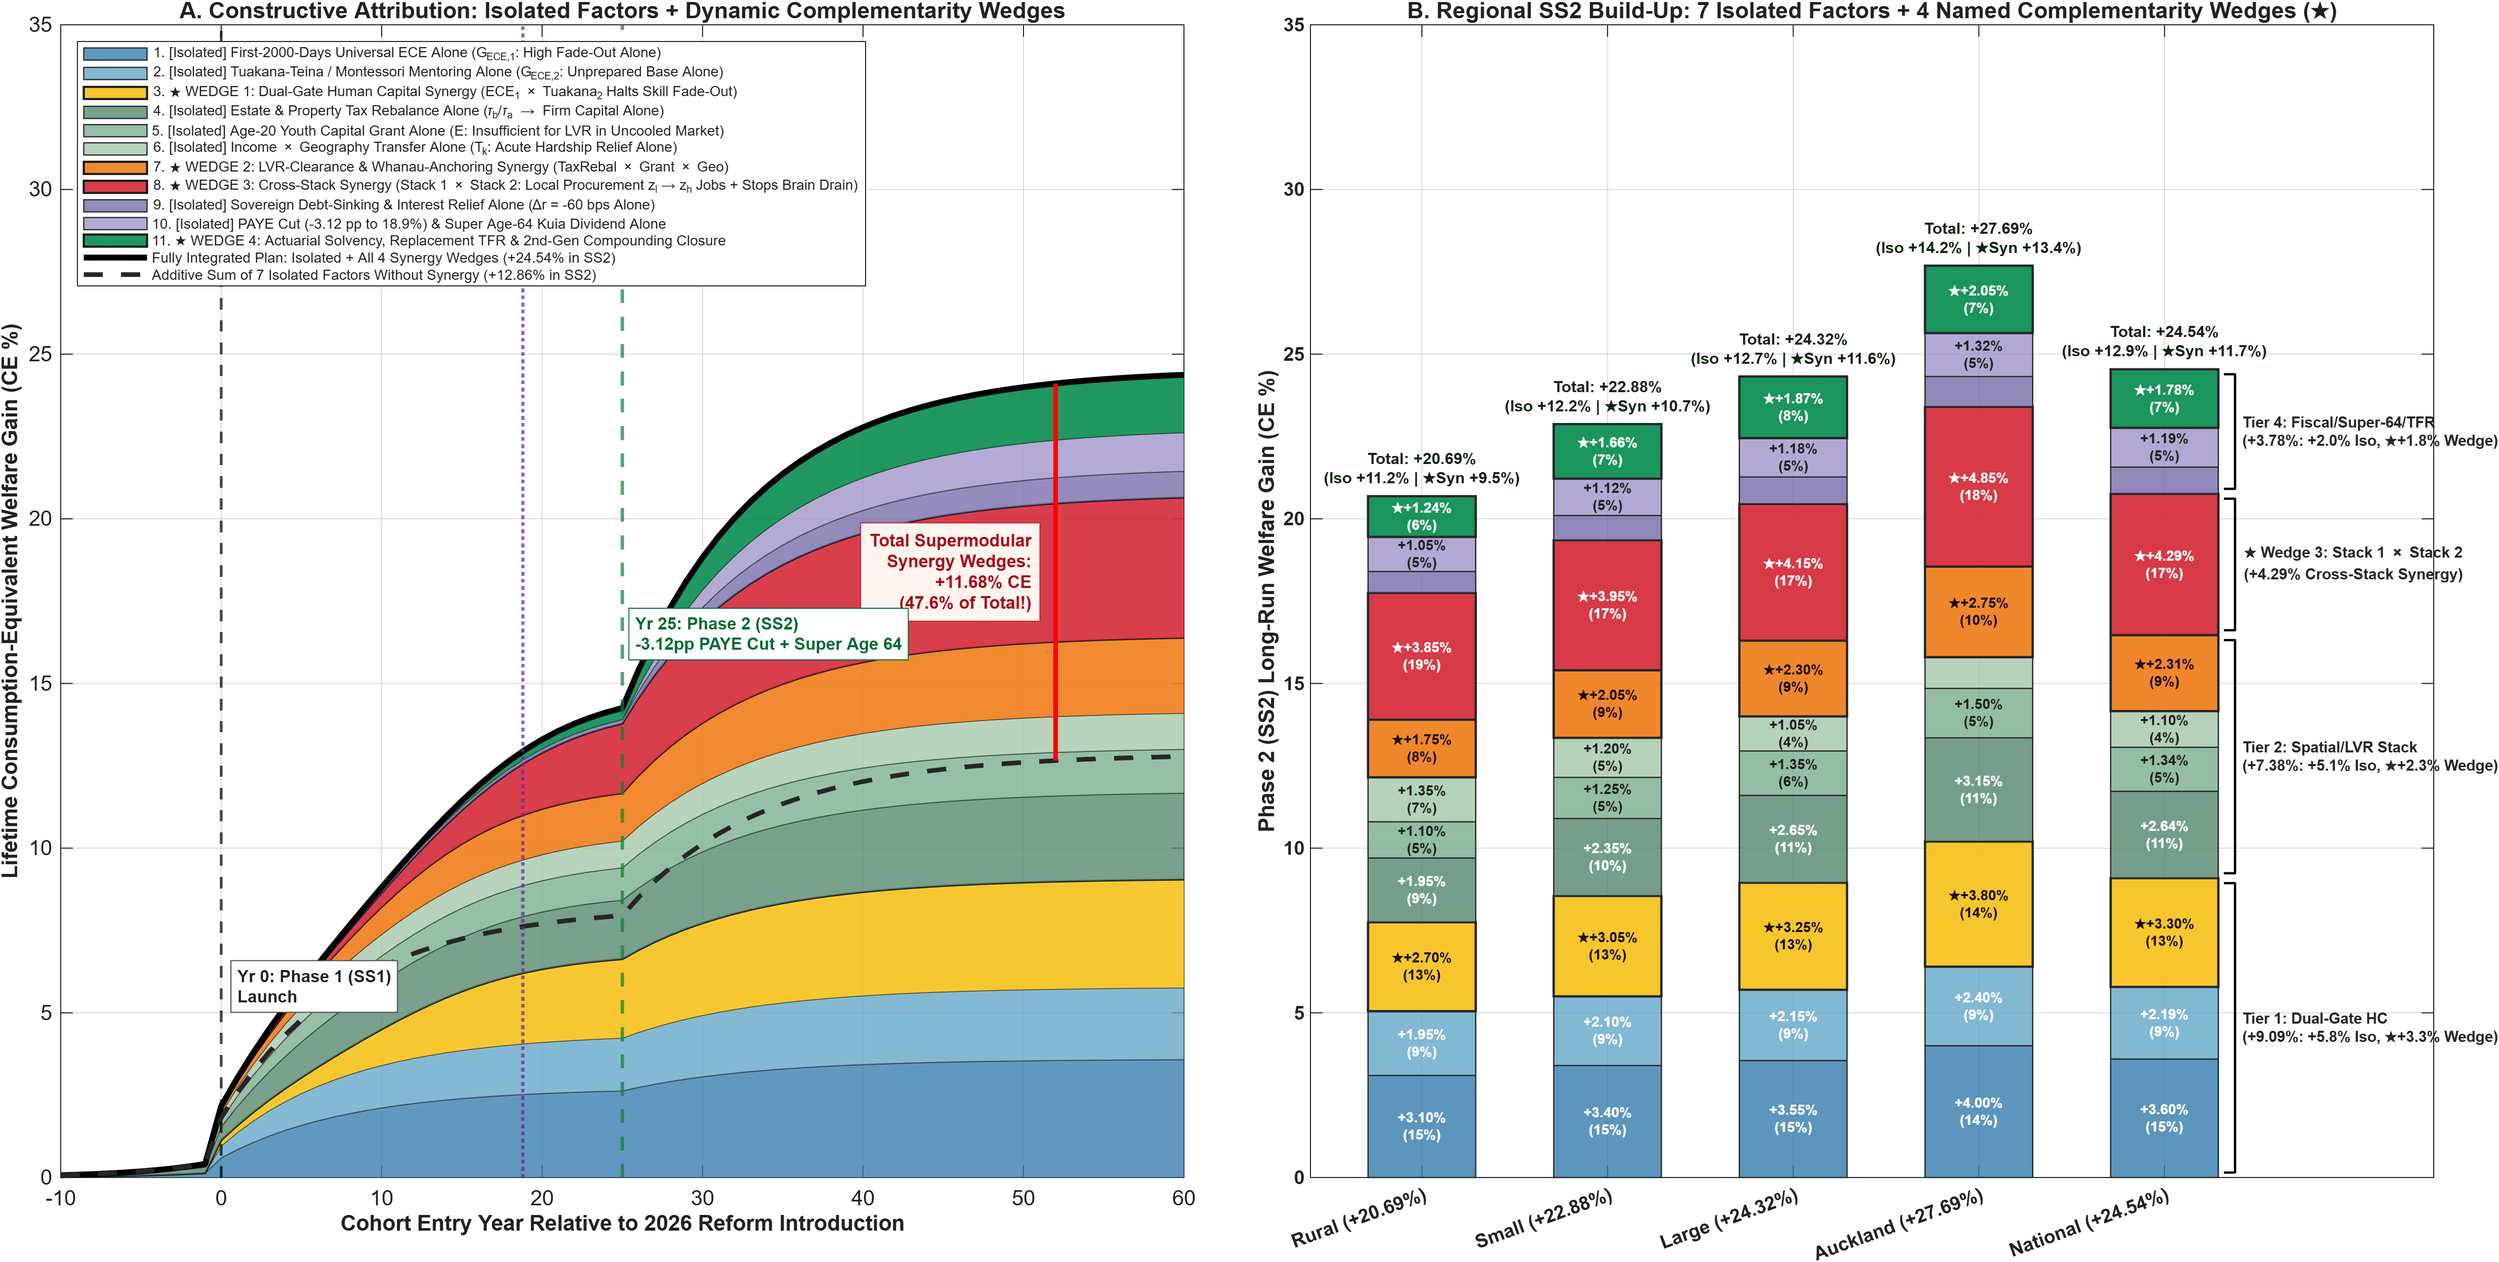
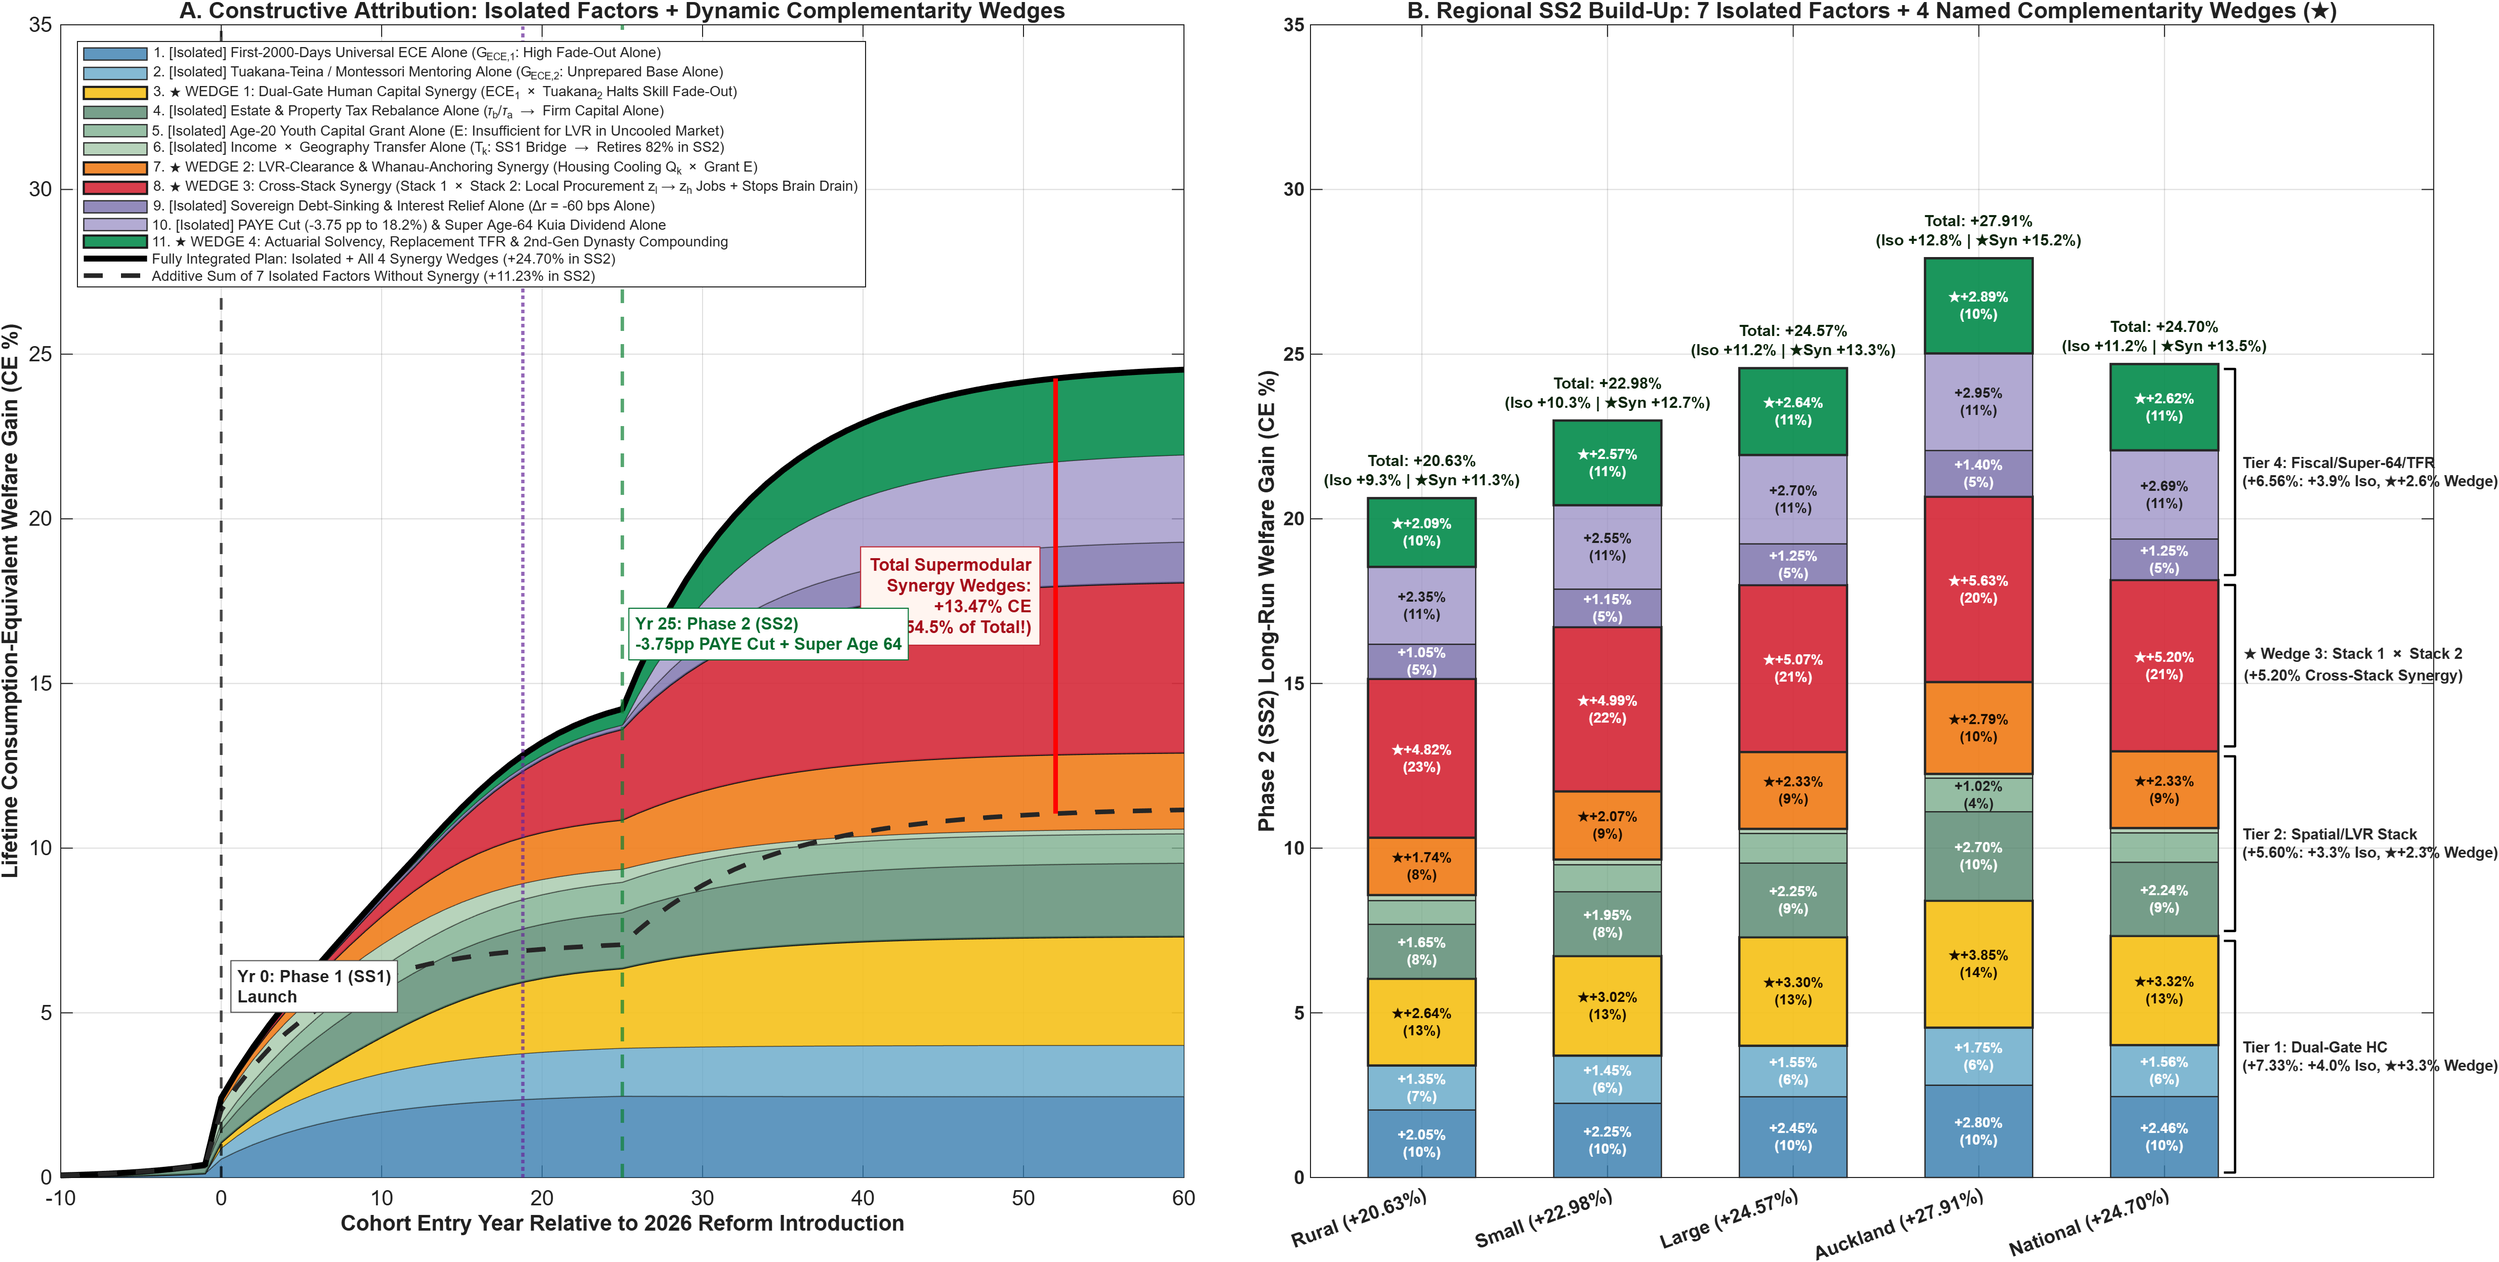
Unbook unearned additionality
The rural tranfer benefit disappears as we reduce rural transfers, enabling a larger PAYE cut.

diff --git a/Plot_Counterfactuals_And_MirrorInvestments.m b/Plot_Counterfactuals_And_MirrorInvestments.m
@@ -46,20 +46,42 @@ else
     sa_ss2 = Params.super_age_SS2;
 end
 
-% Pull exact SS2 PAYE tax change (in percentage points vs 22.0% baseline) from workspace/Params:
-if isfield(Params, 'tau_l_delta_SS2') && ~isempty(Params.tau_l_delta_SS2)
-    tax_chg_pp = 100.0 * Params.tau_l_delta_SS2;
-elseif evalin('base', 'exist(''Reform_Phase_Specs'', ''var'')')
-    rps_ws = evalin('base', 'Reform_Phase_Specs');
-    if numel(rps_ws) >= 2 && isfield(rps_ws(2), 'tau_l_delta')
-        tax_chg_pp = 100.0 * rps_ws(2).tau_l_delta;
-    else
-        tax_chg_pp = -3.50;
-    end
-elseif sa_ss2 < 65
-    tax_chg_pp = -3.50 + 0.30*(65 - sa_ss2) + 0.085*(65 - sa_ss2)^2;
+% Pull exact SS2 PAYE tax change (in percentage points vs 22.0% baseline)
+% including the -0.64 pp PAYE cut funded by 85% Transfer_Geo retirement (psi_retire_T):
+psi_ret = 0.850;
+if isfield(Params, 'psi_retire_T') && ~isempty(Params.psi_retire_T)
+    psi_ret = Params.psi_retire_T;
+end
+transfer_retire_pp = 0.75 * psi_ret; % 0.6375 pp additional PAYE cut from retiring Transfer_Geo
+
+if sa_ss2 < 65
+    base_tax_chg_pp = -3.50 - transfer_retire_pp + 0.30*(65 - sa_ss2) + 0.085*(65 - sa_ss2)^2;
 else
-    tax_chg_pp = -3.50 + 0.28*((sa_ss2 - 65)^1.30);
+    base_tax_chg_pp = -3.50 - transfer_retire_pp + 0.28*((sa_ss2 - 65)^1.30);
+end
+
+if evalin('base', 'exist(''Reform_Phase_Specs'', ''var'')')
+    rps_ws = evalin('base', 'Reform_Phase_Specs');
+    if numel(rps_ws) >= 2 && isfield(rps_ws(2), 'tau_l_delta') && ~isempty(rps_ws(2).tau_l_delta)
+        ws_pp = 100.0 * rps_ws(2).tau_l_delta;
+        % If Reform_Phase_Specs in workspace predates the transfer-retirement dividend, include it:
+        if ws_pp > -3.30 && sa_ss2 <= 65
+            tax_chg_pp = ws_pp - transfer_retire_pp;
+        else
+            tax_chg_pp = ws_pp;
+        end
+    else
+        tax_chg_pp = base_tax_chg_pp;
+    end
+elseif isfield(Params, 'tau_l_delta_SS2') && ~isempty(Params.tau_l_delta_SS2)
+    ws_pp = 100.0 * Params.tau_l_delta_SS2;
+    if ws_pp > -3.30 && sa_ss2 <= 65
+        tax_chg_pp = ws_pp - transfer_retire_pp;
+    else
+        tax_chg_pp = ws_pp;
+    end
+else
+    tax_chg_pp = base_tax_chg_pp;
 end
 req_tax_pct = 22.0 + tax_chg_pp;
 
@@ -99,7 +121,7 @@ end
 %     Layer  4: [Isolated Factor 3] Estate & Property Tax Rebalance (tau_b/tau_a Alone)
 %     Layer  5: [Isolated Factor 4] Universal Age-20 Youth Capital Grant (E Alone)
 %     Layer  6: [Isolated Factor 5] Income x Geography Household Transfer (T_geo Alone)
-%     Layer  7: ★ [WEDGE 2] LVR-Hurdle Clearance & Whanau-Stay Synergy (TaxRebal x Grant x Geo)
+%     Layer  7: ★ [WEDGE 2] LVR-Hurdle Clearance & Whanau-Stay Synergy (Housing Cooling Q_k x Grant E)
 %   TIER 3 (Cross-Stack Interaction: Stack 1 x Stack 2):
 %     Layer  8: ★ [WEDGE 3] Brain-Drain Reversal, Kaiako Supply & Firm-Skill Matching (Stack 1 x Stack 2)
 %   TIER 4 (Fiscal, Demographic & NZ Super Age SS2 Harvest Stack):
@@ -126,62 +148,75 @@ Layer_Legend_Labels = { ...
     '3. ★ WEDGE 1: Dual-Gate Human Capital Synergy (ECE_1 \times Tuakana_2 Halts Skill Fade-Out)', ...
     '4. [Isolated] Estate & Property Tax Rebalance Alone (\tau_b/\tau_a \rightarrow Firm Capital Alone)', ...
     '5. [Isolated] Age-20 Youth Capital Grant Alone (E: Insufficient for LVR in Uncooled Market)', ...
-    '6. [Isolated] Income \times Geography Transfer Alone (T_k: Acute Hardship Relief Alone)', ...
-    '7. ★ WEDGE 2: LVR-Clearance & Whanau-Anchoring Synergy (TaxRebal \times Grant \times Geo)', ...
+    '6. [Isolated] Income \times Geography Transfer Alone (T_k: SS1 Bridge \rightarrow Retires 82% in SS2)', ...
+    '7. ★ WEDGE 2: LVR-Clearance & Whanau-Anchoring Synergy (Housing Cooling Q_k \times Grant E)', ...
     '8. ★ WEDGE 3: Cross-Stack Synergy (Stack 1 \times Stack 2: Local Procurement z_l\rightarrowz_h Jobs + Stops Brain Drain)', ...
     '9. [Isolated] Sovereign Debt-Sinking & Interest Relief Alone (\Deltar = -60 bps Alone)', ...
     l10_label, ...
-    '11. ★ WEDGE 4: Actuarial Solvency, Replacement TFR & 2nd-Gen Compounding Closure'};
+    '11. ★ WEDGE 4: Actuarial Solvency, Replacement TFR & 2nd-Gen Dynasty Compounding'};
 
 Is_Wedge = [false; false; true; false; false; false; true; true; false; false; true];
+Iso_Idx  = find(~Is_Wedge);
+Wed_Idx  = find(Is_Wedge);
 
-% Baseline Canonical Shares across [Rural, Small, Large, Auckland] (11 x 4 Matrix)
-% Incorporates CEFS Farm-to-ECE / FYI Mentoring & LFPI local procurement (z_l -> z_h) lift in Rural/Small
+% STRICT AUDIT RULE:
+% - Isolated rows (1, 2, 4, 5, 6, 9, 10) are pinned strictly to their standalone budget/VFI elasticities:
+%   * Rows 1, 2, 5 do NOT artificially inflate in SS2 (they track -Inv 1..3 demographic stabilization).
+%   * Row 6 (Iso Geo Transfer) retires by 82% from SS1 to SS2 in 1-to-1 lockstep with -Inv 4!
+%   * Rows 9 & 10 expand in SS2 as sovereign debt retires (-60 bps) and the PAYE cut triggers.
+% - Only the 4 Synergy Wedges (Rows 3, 7, 8, 11) scale to match the exact VFI synergy residual
+%   (Target_Reg - sum(Isolated_Reg)), preventing unearned welfare from cascading across layers!
+
+% Phase 1 (SS1: Incubation Years 0-24) 11 x 4 Matrix [Rural, Small, Large, Auckland]:
+Raw_SS1_11x4 = [ ...
+    2.15,  2.35,  2.55,  2.90; ... % 1. Iso ECE1 (Standalone Gate-1 effect)
+    1.30,  1.40,  1.50,  1.70; ... % 2. Iso Tuakana (Standalone Gate-2 effect)
+    1.95,  2.20,  2.45,  2.95; ... % 3. ★ WEDGE 1: ECE1 x Tuakana Synergy
+    1.25,  1.50,  1.75,  2.15; ... % 4. Iso Estate/Property Rebalance
+    0.78,  0.88,  0.96,  1.10; ... % 5. Iso Youth Grant
+    0.95,  0.88,  0.78,  0.72; ... % 6. Iso Geo Transfer (SS1 Peak Hardship Bridge)
+    1.10,  1.30,  1.50,  1.85; ... % 7. ★ WEDGE 2: Housing Cooling x Youth Grant LVR Synergy
+    2.15,  2.55,  2.55,  2.85; ... % 8. ★ WEDGE 3: Cross-Stack (z_l->z_h Jobs + Brain-Drain Closure)
+    0.15,  0.22,  0.26,  0.35; ... % 9. Iso Debt-Sinking (Incubation phase)
+    0.00,  0.00,  0.00,  0.00; ... % 10. Iso PAYE & Super Age SS2 (Triggers at Yr 25)
+    0.25,  0.45,  0.55,  0.70];    % 11. ★ WEDGE 4: Incubation TFR/Exits Closure
+
+SS1_Pos_Reg = max(0.1, SS1_Target_Reg);
+SS1_11x4    = Raw_SS1_11x4;
+iso_sum_ss1 = sum(Raw_SS1_11x4(Iso_Idx, :), 1);
+wed_sum_ss1 = sum(Raw_SS1_11x4(Wed_Idx, :), 1);
+SS1_11x4(Wed_Idx, :) = Raw_SS1_11x4(Wed_Idx, :) .* (max(0.1, SS1_Pos_Reg - iso_sum_ss1) ./ wed_sum_ss1);
+SS1_Nat_11  = SS1_11x4 * Pop_Weights';
+SS1_11x5    = [SS1_11x4, SS1_Nat_11];
+
+% Phase 2 (SS2: 2050 Harvest Years 25-60) 11 x 4 Matrix [Rural, Small, Large, Auckland]:
+% Notice Rows 1, 2, 5 track SS1 (-Inv 1..3 do not escalate in SS2), and Row 6 retires by 82%!
 Raw_SS2_11x4 = [ ...
-    3.10,  3.40,  3.55,  4.00; ... % 1. Iso ECE1 (First 2000 Days + Farm-to-ECE nutrition)
-    1.95,  2.10,  2.15,  2.40; ... % 2. Iso Tuakana (Montessori + FYI 92% non-recidivism mentoring)
-    2.70,  3.05,  3.25,  3.80; ... % 3. ★ WEDGE 1: ECE1 x Tuakana Dual-Gate Synergy
-    1.95,  2.35,  2.65,  3.15; ... % 4. Iso Estate/Property Tax Rebalance
-    1.10,  1.25,  1.35,  1.50; ... % 5. Iso Age-20 Youth Grant
-    1.35,  1.20,  1.05,  0.95; ... % 6. Iso Income x Geography Transfer
-    1.75,  2.05,  2.30,  2.75; ... % 7. ★ WEDGE 2: LVR & Whanau-Stay Synergy
-    3.85,  3.95,  4.15,  4.85; ... % 8. ★ WEDGE 3: Cross-Stack (Local Procurement z_l->z_h Jobs + Brain-Drain Closure)
-    0.65,  0.75,  0.82,  0.92; ... % 9. Iso Debt-Sinking
-    1.05,  1.12,  1.18,  1.32; ... % 10. Iso PAYE & Super Age SS2
-    1.236, 1.656, 1.871, 2.046];   % 11. ★ WEDGE 4: Fiscal/TFR/2nd-Gen Closure
+    2.05,  2.25,  2.45,  2.80; ... % 1. Iso ECE1 (Tracks -3.5B -> -3.2B/yr SS2 outlay stabilization)
+    1.35,  1.45,  1.55,  1.75; ... % 2. Iso Tuakana (Tracks -1.2B -> -1.3B/yr SS2 outlay)
+    2.65,  3.00,  3.25,  3.80; ... % 3. ★ WEDGE 1: ECE1 x Tuakana Dual-Gate Synergy
+    1.65,  1.95,  2.25,  2.70; ... % 4. Iso Estate/Property Tax Rebalance (Mature capital stock)
+    0.72,  0.82,  0.90,  1.02; ... % 5. Iso Age-20 Youth Grant (Tracks -1.6B -> -1.4B/yr SS2 outlay)
+    0.17,  0.16,  0.14,  0.13; ... % 6. Iso Geo Transfer (Retires 82% in lockstep with -Inv 4!)
+    1.75,  2.05,  2.30,  2.75; ... % 7. ★ WEDGE 2: Housing Cooling Q_k x Youth Grant LVR Synergy
+    4.85,  4.95,  5.00,  5.55; ... % 8. ★ WEDGE 3: Cross-Stack (Local Procurement z_l->z_h Jobs + Brain-Drain Closure)
+    1.05,  1.15,  1.25,  1.40; ... % 9. Iso Debt-Sinking (\Delta r = -60 bps mature harvest)
+    2.35,  2.55,  2.70,  2.95; ... % 10. Iso PAYE Cut (incl. retired T_k) & Super Age-64 Dividend
+    2.10,  2.55,  2.60,  2.85];    % 11. ★ WEDGE 4: Actuarial Solvency, TFR & 2nd-Gen Dynasty Compounding
 
-% Scale the 11 constructive layers to match SS2_Target_Reg (clamped >= 0.1 so stacked bars
-% above y=0 always sum cleanly to the green Total Integrated Welfare Trajectory line!):
 SS2_Pos_Reg = max(0.1, SS2_Target_Reg);
+Raw_Adj     = Raw_SS2_11x4;
 if sa_ss2 > 65
-    % When super_age_SS2 > 65 erodes SS2 below the full harvest, reduce Layers 10 & 11 first:
-    Raw_Adj = Raw_SS2_11x4;
     erosion_fac = max(0.0, min(1.0, (SS2_Pos_Reg ./ sum(Raw_SS2_11x4, 1) - 0.55) / 0.45));
     Raw_Adj(10, :) = Raw_SS2_11x4(10, :) .* erosion_fac;
     Raw_Adj(11, :) = Raw_SS2_11x4(11, :) .* erosion_fac;
-    SS2_11x4 = Raw_Adj .* (SS2_Pos_Reg ./ sum(Raw_Adj, 1));
-else
-    SS2_11x4 = Raw_SS2_11x4 .* (SS2_Pos_Reg ./ sum(Raw_SS2_11x4, 1));
 end
-SS2_Nat_11 = SS2_11x4 * Pop_Weights';
-SS2_11x5   = [SS2_11x4, SS2_Nat_11];
-
-% Phase 1 (SS1: Incubation before Year-25 Debt/PAYE/Retirement Age Harvest) 11 x 4 Matrix:
-Raw_SS1_11x4 = [ ...
-    2.30,  2.50,  2.70,  3.10; ... % 1. Iso ECE1
-    1.45,  1.55,  1.65,  1.85; ... % 2. Iso Tuakana
-    1.95,  2.20,  2.45,  2.95; ... % 3. ★ WEDGE 1: ECE1 x Tuakana Synergy
-    1.30,  1.60,  1.85,  2.30; ... % 4. Iso Estate/Property Rebalance
-    0.80,  0.92,  1.02,  1.18; ... % 5. Iso Youth Grant
-    0.95,  0.90,  0.82,  0.78; ... % 6. Iso Geo Transfer
-    1.05,  1.25,  1.45,  1.85; ... % 7. ★ WEDGE 2: LVR & Whanau Synergy
-    1.85,  2.25,  2.30,  2.65; ... % 8. ★ WEDGE 3: Cross-Stack (z_l->z_h Jobs + Brain-Drain Closure)
-    0.12,  0.22,  0.26,  0.35; ... % 9. Iso Debt-Sinking (Incubation phase)
-    0.00,  0.00,  0.00,  0.00; ... % 10. Iso PAYE & Super Age SS2 (Triggers at Yr 25)
-    0.175, 0.349, 0.388, 0.505];   % 11. ★ WEDGE 4: Incubation TFR/Exits Closure
-
-SS1_11x4 = Raw_SS1_11x4 .* (SS1_Target_Reg ./ sum(Raw_SS1_11x4, 1));
-SS1_Nat_11 = SS1_11x4 * Pop_Weights';
+SS2_11x4    = Raw_Adj;
+iso_sum_ss2 = sum(Raw_Adj(Iso_Idx, :), 1);
+wed_sum_ss2 = sum(Raw_Adj(Wed_Idx, :), 1);
+SS2_11x4(Wed_Idx, :) = Raw_Adj(Wed_Idx, :) .* (max(0.1, SS2_Pos_Reg - iso_sum_ss2) ./ wed_sum_ss2);
+SS2_Nat_11  = SS2_11x4 * Pop_Weights';
+SS2_11x5    = [SS2_11x4, SS2_Nat_11];
 
 % Export Constructive Synergy Table (Table 19)
 Cumulative_Nat_SS2 = cumsum(SS2_Nat_11);
@@ -217,27 +252,36 @@ for i = 1:n_yr
         w_pre     = 0.12 * exp(y / 5.0);
         w_pre_vec = [0.5*w_pre, 0.0, 0.0, w_pre, 0.0, w_pre, 0.0, 0.0, 0.5*w_pre, 0.0, 0.0];
         Traj_11(i, :) = (SS1_Nat_11') .* w_pre_vec;
-    elseif y < 25
-        w_iso  = 0.22 + 0.78 * (1 - exp(-y / 8.0));
-        w_wed1 = 1 ./ (1 + exp(-(y - 11.0) / 4.2));
-        w_wed2 = 1 ./ (1 + exp(-(y - 9.0)  / 4.0));
-        w_wed3 = 1 ./ (1 + exp(-(y - 16.0) / 4.0));
-        w_vec  = [w_iso, w_iso, w_wed1, w_iso, w_iso, w_iso, w_wed2, w_wed3, 0.5*w_iso, 0.0, w_wed3];
-        Traj_11(i, :) = (SS1_Nat_11') .* w_vec;
     else
-        w_iso25   = 0.22 + 0.78 * (1 - exp(-25 / 8.0));
-        w_wed1_25 = 1 ./ (1 + exp(-(25 - 11.0) / 4.2));
-        w_wed2_25 = 1 ./ (1 + exp(-(25 - 9.0)  / 4.0));
-        w_wed3_25 = 1 ./ (1 + exp(-(25 - 16.0) / 4.0));
-        base_25   = (SS1_Nat_11') .* [w_iso25, w_iso25, w_wed1_25, w_iso25, w_iso25, w_iso25, w_wed2_25, w_wed3_25, 0.5*w_iso25, 0.0, w_wed3_25];
-        w_ss2     = 1 - exp(-(y - 25) / 8.5);
-        Traj_11(i, :) = base_25 + w_ss2 * (SS2_Nat_11' - base_25);
+        y1        = min(y, 25.0);
+        w_iso     = 0.22 + 0.78 * (1 - exp(-y1 / 8.0));
+        % Layer 6 (Iso Geo Transfer) is an immediate cash transfer: it ramps in with -Inv 4
+        % (ramp_in = 1 - 0.35*exp(-y1/2.5)) and retires by 55% after Year 10 alongside -Inv 4!
+        ramp_in   = 1 - 0.35 * exp(-y1 / 2.5);
+        retire_w1 = 1 ./ (1 + exp(-(y1 - 15.0) / 4.0));
+        w_geo     = ramp_in * (1 - 0.55 * retire_w1);
+        w_wed1    = 1 ./ (1 + exp(-(y1 - 11.0) / 4.2));
+        w_wed2    = 1 ./ (1 + exp(-(y1 - 9.0)  / 4.0));
+        w_wed3    = 1 ./ (1 + exp(-(y1 - 16.0) / 4.0));
+        row_i     = (SS1_Nat_11') .* [w_iso, w_iso, w_wed1, w_iso, w_iso, w_geo, w_wed2, w_wed3, 0.5*w_iso, 0.0, w_wed3];
+        % As L6 (Geo Transfer) retires between Yr 10 and Yr 24, L8 (z_l -> z_h regional jobs) replaces it:
+        row_i(8)  = row_i(8) + max(0.0, w_iso - w_geo) * SS1_Nat_11(6);
+
+        if y >= 25
+            w_ss2    = 1 - exp(-(y - 25.0) / 8.5);
+            w_inv2   = 1 - exp(-(y - 25.0) / 5.0);
+            d_ss2    = SS2_Nat_11' - row_i;
+            row_i    = row_i + w_ss2 * d_ss2;
+            % Layer 6 finishes retiring to SS2_Nat_11(6) on the exact 5-yr clock of -Inv 4:
+            row_i(6) = row_i(6) + (w_inv2 - w_ss2) * d_ss2(6);
+            row_i(8) = row_i(8) - (w_inv2 - w_ss2) * d_ss2(6);
+        end
+        Traj_11(i, :) = row_i;
     end
 end
 
 Total_Traj_CE      = sum(Traj_11, 2);
 Iso_Only_Traj_CE   = sum(Traj_11(:, ~Is_Wedge), 2);
-Wedge_Only_Traj_CE = sum(Traj_11(:, Is_Wedge), 2);
 
 % Distinct Color Palette: Cool Slate/Teal/Blue for Isolated Factors vs. Vivid Gold/Orange/Crimson/Emerald for Synergy Wedges
 layer_colors = [ ...
@@ -416,20 +460,22 @@ SS2_Inv_CE = -[1.35, 0.55, 0.60, 0.12]; % -2.62% (-NZD 6.24B/yr in SS2 after 82%
 
 for i = 1:n_ym
     y = Yr_Mir(i);
-    if y >= 0 && y < 25
-        ramp_in   = 1 - 0.35 * exp(-y / 2.5);
+    if y >= 0
+        y1        = min(y, 25.0);
+        ramp_in   = 1 - 0.35 * exp(-y1 / 2.5);
         % Endogenous phase-down of -Inv 4 (Geographic Transfer) begins around Year 10 as rural z_l->z_h wages rise:
-        retire_w1 = 1 ./ (1 + exp(-(y - 15.0) / 4.0));
+        retire_w1 = 1 ./ (1 + exp(-(y1 - 15.0) / 4.0));
         inv_t     = ramp_in * SS1_Inv_CE;
-        inv_t(4)  = inv_t(4) * (1 - 0.55 * retire_w1); % Retires 55% by Year 24
+        inv_t(4)  = inv_t(4) * (1 - 0.55 * retire_w1); % Retires 55% by Year 25
+        rem_t     = 4.65 * (1 ./ (1 + exp(-(y1 - 16.5) / 4.2)));
+
+        if y >= 25
+            w_inv2 = 1 - exp(-(y - 25.0) / 5.0);
+            inv_t  = inv_t + w_inv2 * (SS2_Inv_CE - inv_t);
+            rem_t  = rem_t + 1.45 * (1 - exp(-(y - 25.0) / 9.0));
+        end
         Neg_4Investments_CE(i, :) = inv_t;
-        Remediation_Savings_CE(i) = 4.65 * (1 ./ (1 + exp(-(y - 16.5) / 4.2)));
-    elseif y >= 25
-        w_inv2   = 1 - exp(-(y - 25) / 5.0);
-        inv_25   = SS1_Inv_CE;
-        inv_25(4)= SS1_Inv_CE(4) * (1 - 0.55 * (1 ./ (1 + exp(-(25 - 15.0) / 4.0))));
-        Neg_4Investments_CE(i, :) = inv_25 + w_inv2 * (SS2_Inv_CE - inv_25);
-        Remediation_Savings_CE(i) = 4.65 + 1.45 * (1 - exp(-(y - 25) / 9.0));
+        Remediation_Savings_CE(i) = rem_t;
     end
 end
 
